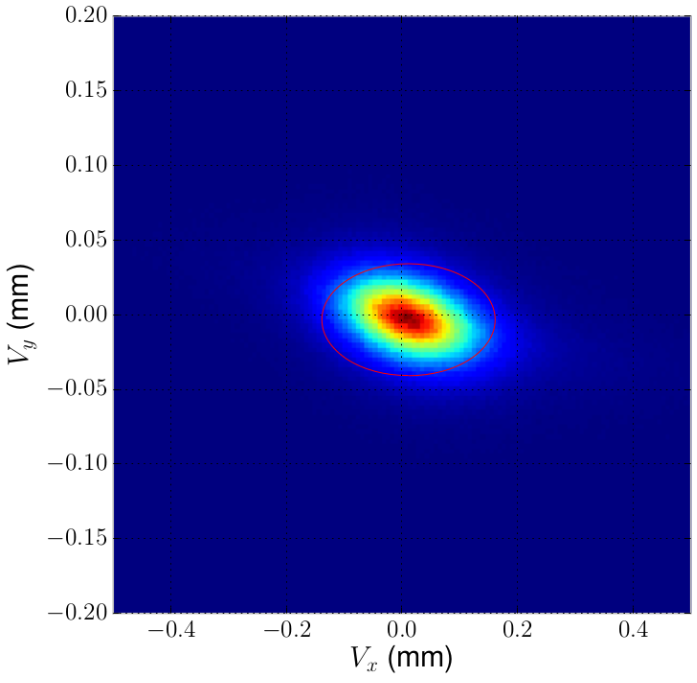
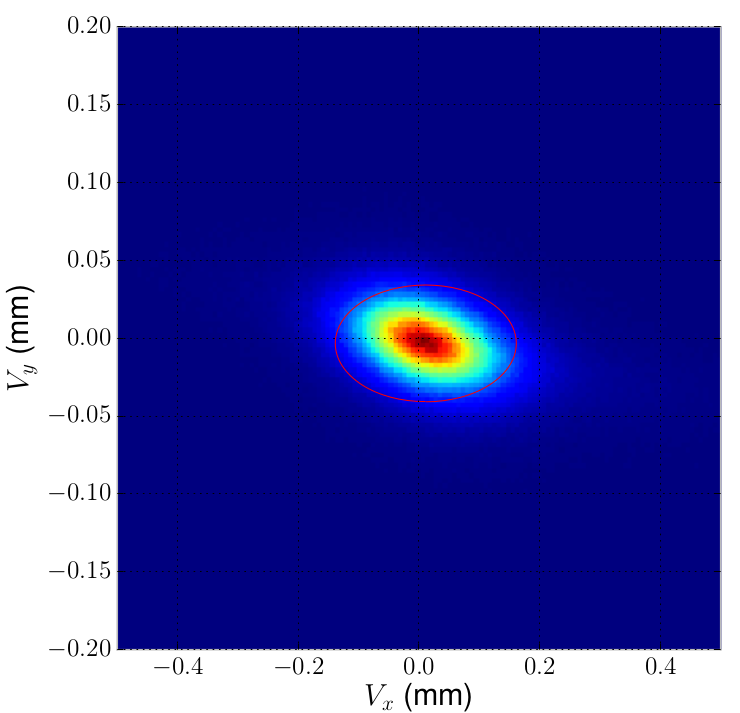
Several small updates.

Changed region(s): [[0.0603, 0.0, 0.9943, 1.0], [0.3917, 0.3382, 0.7834, 0.6149], [0.0, 0.369, 0.0603, 0.5534]]

diff --git a/chapters/event_selection.tex b/chapters/event_selection.tex
@@ -7,19 +7,20 @@
 Searching for a heavy photon resonance requires both the accurate 
 reconstruction of the QED trident invariant mass spectrum and the efficient 
 rejection of Bethe-Heitler events.  With this in mind, a scheme 
-was developed to select events with $e^+e^-$ pairs that have well 
-reconstructed clusters and tracks associated with them.  Additional kinematic 
+was developed to select events with $e^+e^-$ pairs whose kinematic signatures
+resemble that of QED tridents.  Once a sample of QED tridents has been selected, 
+additional kinematic 
 requirements were applied to reject Bethe-Heitler events.  The  $e^+e^-$ events
 which satisfied all criteria were used to produce the final invariant mass 
 spectrum employed to search for a heavy photon resonance.  The following chapter
-will discuss the data and selection used to arrive at the final event sample.   
+will discuss the selection used to arrive at the final event sample.   
 
 \section{Data}
 
 The data used for this analysis consist of the unblinded portion of the 2015 
 HPS engineering run.  This amounts to approximately $\sim$10\% of the total 
 data collected during the run.  The list of runs used in this analysis along
-with the total number of events and luminosity for 10\% of each run 
+with the unblinded number of events and luminosity for each run 
 are shown on Table \ref{tab:data}.
 %%%%%%%%%%%%%%%%%%%%%
 %   Table of Data   %
@@ -52,16 +53,20 @@ are shown on Table \ref{tab:data}.
             5797 & 10.047503 & 3.584285692  
         \end{tabular}
     \end{center}
+    \caption{List of ``golden'' runs from the 2015 Heavy Photon Search Engineering Run used
+             in this analysis along with the total number of events
+             and luminosity of the unblinded portion of the data.}
     \label{tab:data}
 \end{table}
 
-Before being considered for the final event selection discussed later in the chapter, 
-all events were required to satisfy the ``pair1'' trigger criteria 
-discussed in section [].  Furthermore, only events where the bias of the SVT was
-on, the SVT was positioned at 0.5 mm from the beam and were free of data 
-acquisition errors were considered.
-
 \section{Event Selection}
+
+The HPS ``pairs1'' trigger was designed to trigger on events with two clusters
+whose positions in the Ecal were consistent with an $e^+e^-$ from either a trident 
+reaction or the decay of an $A'$. As such, only ``pairs1'' trigger events
+were considered for the final data sample.  Furthermore, only events where the
+bias of the SVT was on, the SVT was positioned at 0.5 mm from the beam and 
+were free of data acquisition errors were studied.
 
 \subsection{Cluster Pair Selection}
 
@@ -79,15 +84,15 @@ other.  From the figure, it can be seen that most cluster pairs of interest are
 \begin{figure}[t]
     \centering
     \includegraphics[width=.9\textwidth]{images/20160428_pass4_cluster_time_v_cluster_time.png}
-    \caption{The Ecal cluster time of one cluster versus it's corresponding pair for all
-             pairs in an event.}
+    \caption{The spectrum of Ecal cluster times of one cluster composing a pair 
+             versus other.  The figure clearly shows that most coincident pairs 
+             fall within tight coincidence and cluster time windows.}
     \label{fig:cluster_times_2d}
 \end{figure}  
 %%%%%%%%%%%%%%
 %   Figure   %
 %%%%%%%%%%%%%%
-coincidence to within a few ns. Furthermore, as can be seen from Fig. 
-\ref{fig:cluster_times}, 
+coincidence to within a few ns. Furthermore,  
 %%%%%%%%%%%%%%
 %   Figure   %
 %%%%%%%%%%%%%%
@@ -100,18 +105,18 @@ coincidence to within a few ns. Furthermore, as can be seen from Fig.
 %%%%%%%%%%%%%%
 %   Figure   %
 %%%%%%%%%%%%%%
-all clusters also fall within a cluster time window. 
+all clusters also fall within a cluster time window (see Fig. \ref{fig:cluster_times}). 
 
 In order to select true coincidences, the clusters forming a pair were 
 required to have a cluster time between 42 ns and 47.5 ns.  The efficiency
 of finding a track associated with a cluster was found to dramatically drop 
-for clusters found outside of this window.  The selection is
+for clusters outside of this window.  The selection is
 shown graphically in red on Fig. \ref{fig:cluster_times}.  Clusters satisfying
 the cluster time criteria are then formed into pairs.  The coincidence timing
 between a pair is then required to fall within a 3.2 ns window around the 
-coincidence peak at 0.003 ns (Fig. \ref{fig:coin_time}).  If an event contains
-multiple ``good'' cluster pairs, the pair with the smallest coincident time is 
-chosen. 
+coincidence peak located at 0.003 ns (Fig. \ref{fig:coin_time}).  If an event
+contains multiple ``good'' cluster pairs, the pair with the smallest coincident
+time is chosen. 
 %%%%%%%%%%%%%%
 %   Figure   %
 %%%%%%%%%%%%%%
@@ -127,15 +132,17 @@ chosen.
  
 \subsection{Track-Cluster Matching}
    
-In order to further supress accidental cluster pairs, the 
+In order to further suppress accidentals due to one or both clusters in the pair
+being attributed to a photon, the 
 selected ``good'' cluster pairs are required to have tracks associated 
-with them. The trajectories of all tracks in an event are propogated downstream
-to the face of the Ecal using the full magnetic field map.  A track and a cluster
+with them. The trajectories of all tracks in an event are propagated downstream
+to the face of the Ecal using the full 3D magnetic field map.  A track and a cluster
 are considered a match if the difference between their positions in both $x$ 
 and $y$ satisfy the criteria listed on Table \ref{tab:track_cluster_cuts}. The 
 cuts were chosen such that they create a 3$\sigma$ window around the peak of 
-the cluster-track position difference distributions 
-(See Figs. \ref{fig:track_cluster_delta_x} and \ref{fig:track_cluster_delta_y}).
+the cluster-track position difference distributions. The resulting selection is 
+highlighted in red on 
+Figs. \ref{fig:track_cluster_delta_x} and \ref{fig:track_cluster_delta_y}.
 \begin{figure}[h]
     \begin{subfigure}{.5\textwidth}
         \centering
@@ -160,8 +167,7 @@ the cluster-track position difference distributions
     \caption{Histogram}
     \label{fig:track_cluster_delta_y}
 \end{figure}
-If multiple tracks satisfy this criteria, the track 
-\begin{table}[h]
+\begin{table}[t]
     \begin{center}
         \begin{tabular}{r|cc}
             \hline
@@ -172,20 +178,23 @@ If multiple tracks satisfy this criteria, the track
             \hline
         \end{tabular}
     \end{center}
-    \caption{Table with cuts.}
+    \caption{Boundaries used to denote the 3$\sigma$ window used to establish if 
+             an Ecal cluster and SVT track are matched to each other.  Due to 
+             global misalignments, different windows are needed for top and 
+             bottom tracks and clusters.}
     \label{tab:track_cluster_cuts}
 \end{table}
-closest to the cluster is chosen.  Currently, there are no requirements on the
-ratio of cluster energy to the track momentum, $E/p$.
-   
+If multiple tracks were found to match to a single cluster, the track 
+with the minimum radial distance to the cluster was chosen.  
+
 \subsection{Final Trident Sample}
 
 The event selection criteria that have been applied thus far only select 
 events that have QED trident or $A'$ like signatures i.e. two coincident clusters that
-satisfy trigger cuts have an $e^+e^-$ track associated with them.  However, 
-there remains several accidentals that need to be removed from the final 
+passed the trigger cuts and have $e^+e^-$ tracks associated with them.  However, 
+there remains several $e^+e^-$ accidentals that need to be removed from the final 
 event sample.  This is best accomplished by subjecting the tracks associated 
-with the clusters to additional criteria.  The criteria are as follows: 
+with the clusters to the following additional criteria:
 \begin{itemize}
     \item For simplicity, events that have multiple positron tracks are not 
           considered.
@@ -193,27 +202,29 @@ with the clusters to additional criteria.  The criteria are as follows:
           have been mismatched to a cluster, both tracks are subjected to 
           $\chi^2$ probability cut of 95\%.
     \item Some of the electrons in the cluster pair may actually be a multiple
-          Coulomb scattered electron instead of one assicated with an $e^+e^-$ 
+          Coulomb scattered beam electron of energy 1.056 GeV 
+          instead of one associated with a true $e^+e^-$ 
           pair.  To remove these events from the final event sample, the 
           momentum of electron tracks are required to be less than 0.85 GeV.
     \item The $e^+e^-$ tracks associated with the clusters are vertexed with 
           their position along the beamline, $v_z$, constrained to the target. 
-          For true $e^+e^-$ pairs, the vertex position should be well constrained
-          to an ellipse.  With this in mind, 
-          the $chi^2$ of the vertex fit is required to be less than 10, while
-          the positions along x and y ($v_x$ and $v_y$) must lie within an ellipse 
+          For true $e^+e^-$ pairs, the vertex position in x and y ($v_x$ and $v_y$) should be
+          well constrained to an ellipse with dimensionality close to the beam 
+          spot.  With this in mind, the fitted vertex $\chi^2$ is first required 
+          to be less than 10.  The positions along x and y are then required 
+          to lie within an ellipse 
           defined as
           \[
                 v_x^2/0.04 + v_y^2/0.0025  = 1.
           \]
-          The elliptical selection is shown graphically on Fig. \ref{vertex_xy}.
+          The elliptical selection is shown graphically on Fig. \ref{fig:vertex_xy}.
 \end{itemize}
 %%%%%%%%%%%%%%
 %   Figure   %
 %%%%%%%%%%%%%%
 \begin{figure}[t]
     \centering
-    \includegraphics[width=.9\textwidth]{images/20160503_vertex_xy.png}
+    \includegraphics[width=.7\textwidth]{images/20160503_vertex_xy.png}
     \caption{Vertex position at the target.}
     \label{fig:vertex_xy}
 \end{figure}  
@@ -228,29 +239,46 @@ radiative processes can be used to analyze both the rate of $A'$ signal producti
 and the sensitivity of the experiment to $A'$ signals.  It is then crucial to
 maximize the fraction of radiative events in the final event sample.  The final
 event sample is expected to be dominated by the Bethe-Heitler process.  However,
-the kinematic difference between the Radiative and Bethe-Heitler processes can 
+the kinematic difference between the radiative and Bethe-Heitler processes can 
 be exploited to reduce the number of Bethe-Heitler events.  Specifically, the 
-$e^+e^-$ pair produced in a Radiative process will be highly boosted, while 
+$e^+e^-$ pair produced in a radiative process will be highly boosted, while 
 only one of the electrons in the Bethe-Heitler process will be boosted 
 while the other will be much softer.  With this in mind, the sum of the momentum
-of the electron and positron, ``p-sum'', allows discrimination between the two processes.
+of the electron and positron, ``p-sum'', allows the discrimination between the two processes.
 Specifically, radiative events are expected to have a ``p-sum'' peaked 
-at the beam energy, while the distribution of Bethe-Heitlers will be peaked a 
+closed to the beam energy, while the distribution of Bethe-Heitlers will be peaked a 
 low p-sum.
 
-Figure \ref{} shows the sum of the momentum of the $e^+e^-$ tracks composing a 
-pair. Using pure radiative and full trident MC, requiring a pair to have a 
+Figure \ref{fig:p_sum} shows the distribution of the sum of the momentum of the $e^+e^-$ tracks composing a 
+%%%%%%%%%%%%%%
+%   Figure   %
+%%%%%%%%%%%%%%
+\begin{figure}[t]
+    \centering
+    \includegraphics[width=.7\textwidth]{images/20160504_psum.png}
+    \caption{Distribution of the sum of $e^+e^-$ momentum.  The distribution in 
+             red graphically indicates the selection used to maximize the fraction
+             of  radiative events in the final event sample.}
+    \label{fig:p_sum}
+\end{figure}  
+%%%%%%%%%%%%%%
+%   Figure   %
+%%%%%%%%%%%%%%
+pair. Using pure radiative and full trident Monte Carlo, requiring a pair to have a 
 p-sum cut greater than 0.8 GeV was found to maximize the radiative fraction.
-The cut is shown graphically on Fig. \ref{}.  The invariant mass distribution
-before and after the p-sum cut was applied is also shown on Fig. \ref{}.
+The cut is shown graphically on Fig. \ref{fig:p_sum}.  The invariant mass
+distribution before (blue) and after (red) the p-sum cut was applied is also shown
+on Fig. \ref{fig:mass_selection}.
 
 \begin{figure}[t]
     \centering
-    \includegraphics[width=1.0\textwidth]{images/invariant_mass_final.png}
-    \caption{The Heavy Photon Search $e^+e^-$ invariant mass distribution after
-             the final event selection has been applied.  The mass distribution
+    \includegraphics[width=1.0\textwidth]{images/20160504_invariant_mass_selection.png}
+    \caption{The Heavy Photon Search $e^+e^-$ invariant mass distribution before (blue) 
+             and after (red) a cut on the sum of the $e^+e^-$ momentum.  The cut 
+             maximizes the number of radiative trident events in the final event sample.
+             The mass distribution in red 
              will serve as the starting point for the resonance search.}
-    \label{fig:mass_distribution}
+    \label{fig:mass_selection}
 \end{figure}
 
-\subsection{Event Selection Efficiencies}
+%\subsection{Event Selection Efficiencies}
